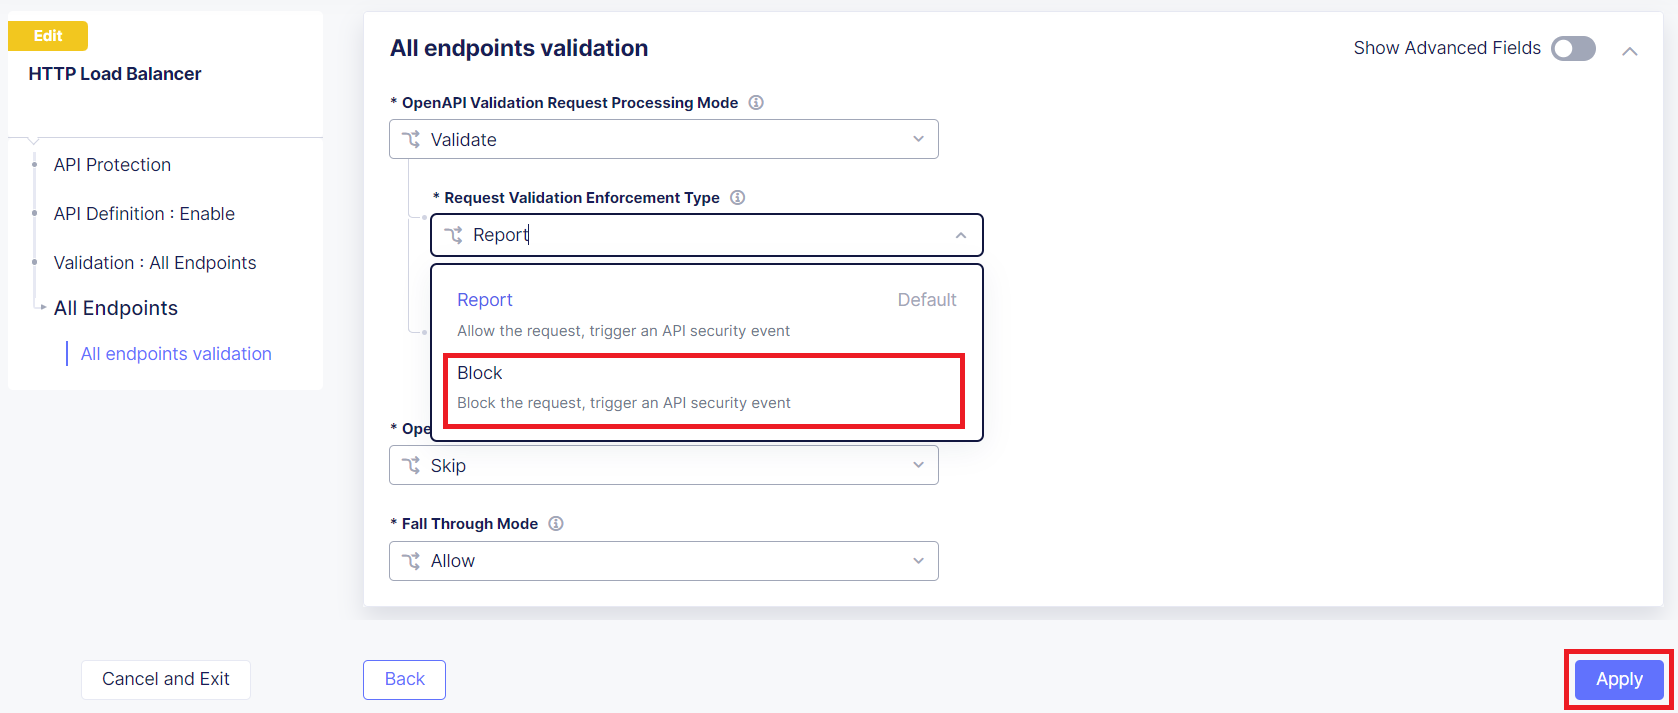
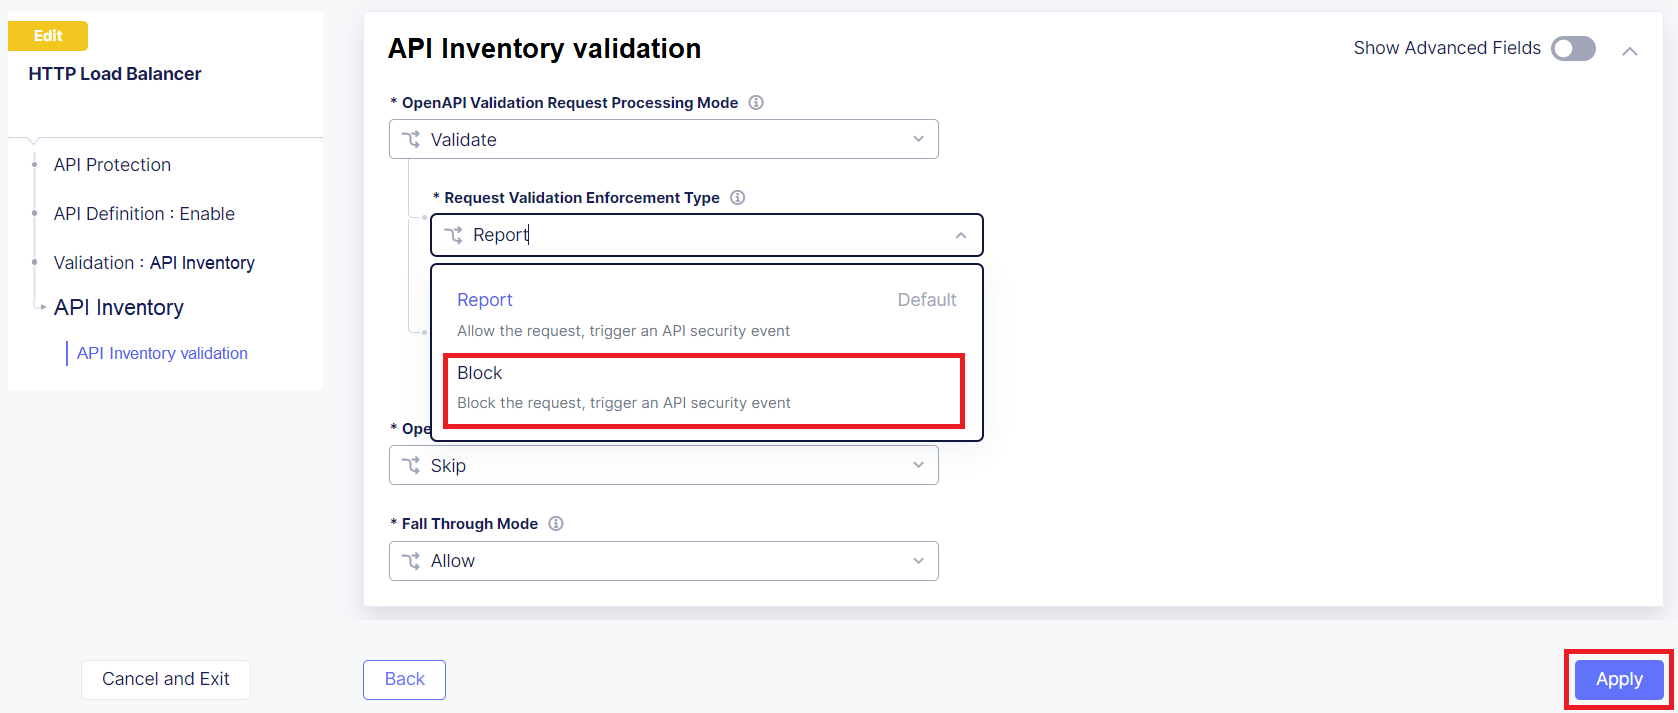
UI change update, inventory validation

diff --git a/docs/class1/lab1.rst b/docs/class1/lab1.rst
@@ -244,12 +244,12 @@ previously built Load Balancer object delivering the targeted API.
       :width: 800px
 
 #. Under **Validation**, select **API Inventory** from drop-down then click on
-   **Edit Configuration**
+   **View Configuration**
 
    .. image:: _static/lab1-task4-006.png
       :width: 800px
 
-#. Within **All endpoints validation**, update **Request Validation Endforcement Type** to
+#. Within **API Inventory validation**, update **Request Validation Endforcement Type** to
    **Block**. Click on **Apply** bottom right.
 
    .. image:: _static/lab1-task4-006a.png
